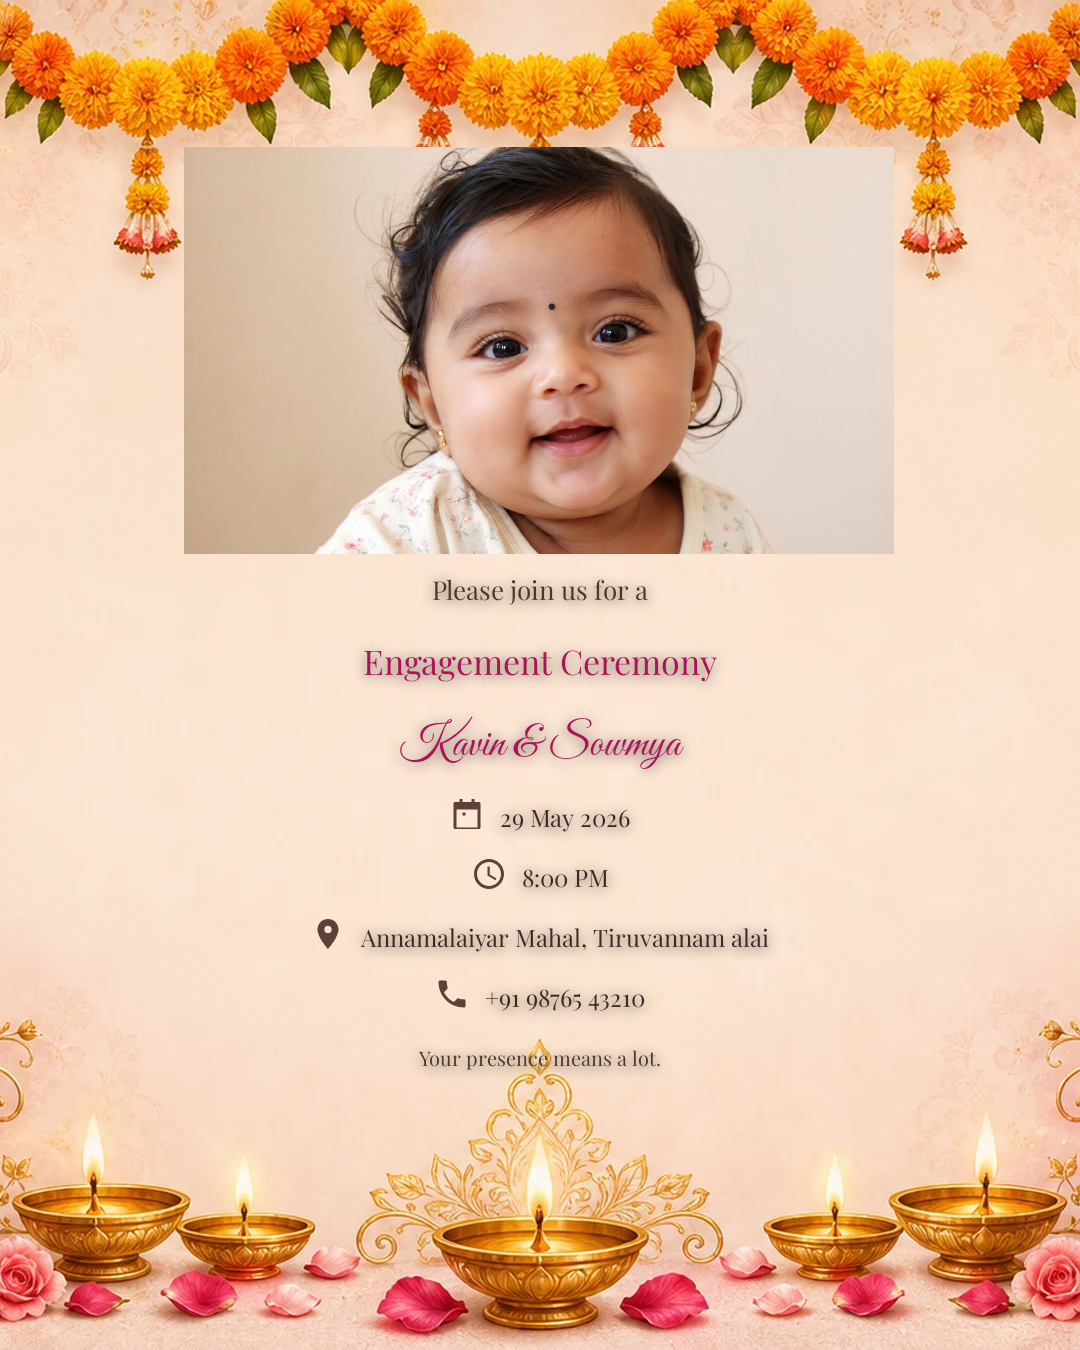
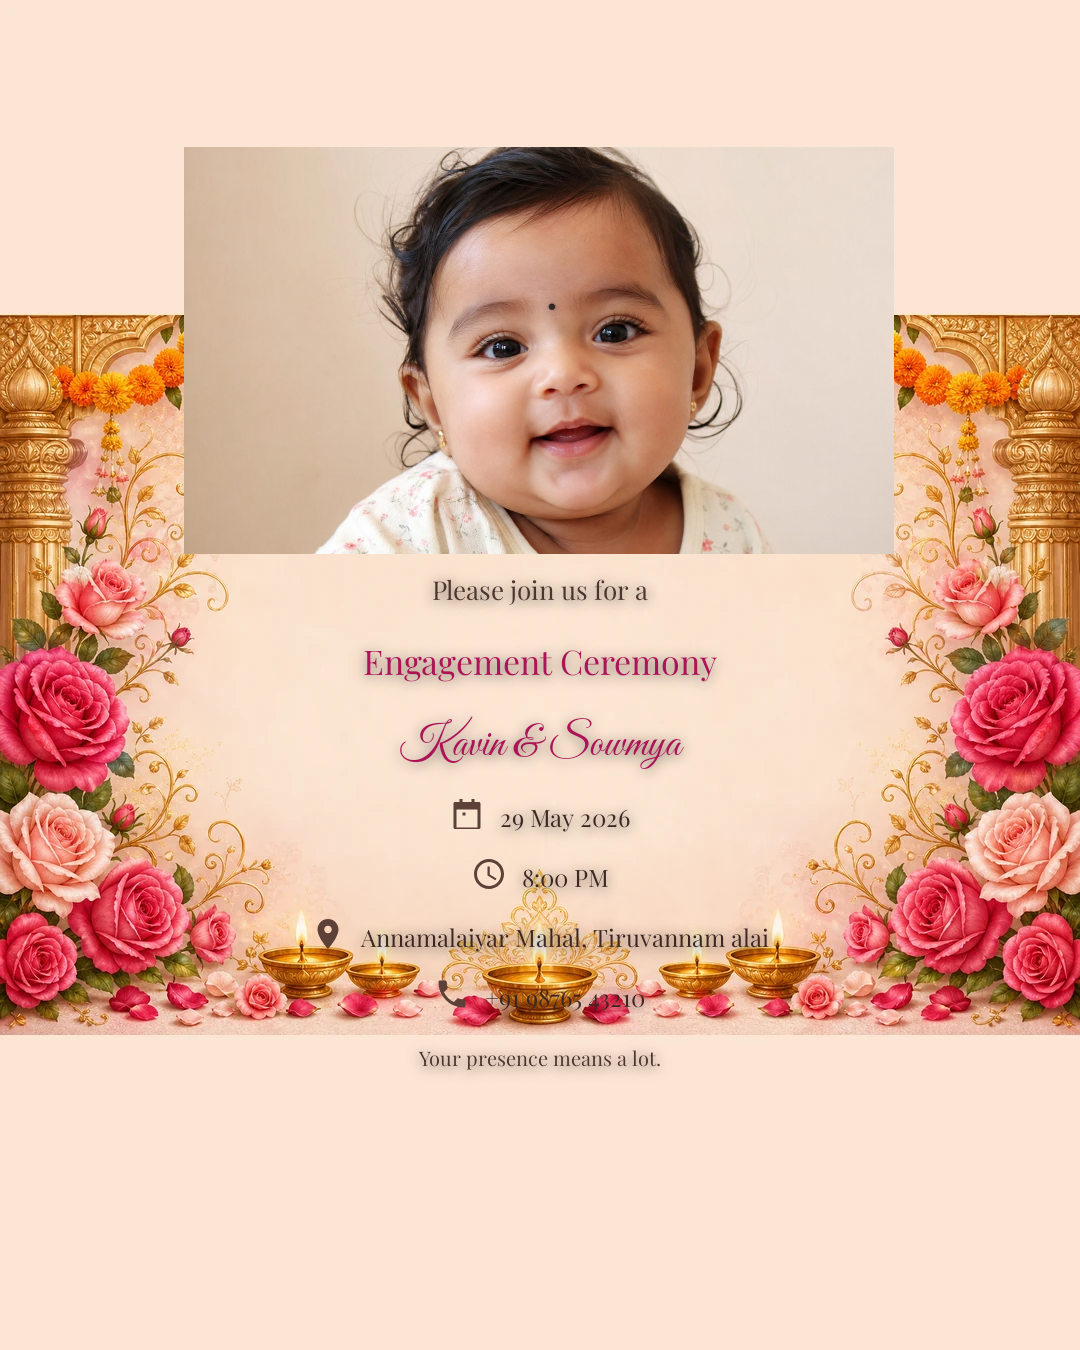
Fix photo-card WebP conversion to preserve side border art
Landscape sources were center-cropped to portrait, cutting banana leaves and
side garlands. Scale to full card width instead; letterbox top/bottom when needed.
Re-convert engagement and naming WebPs; adjust photo placement bounds.

diff --git a/app/src/main/java/com/vaangainvite/core/image/PhotoCardPlacement.kt b/app/src/main/java/com/vaangainvite/core/image/PhotoCardPlacement.kt
@@ -17,8 +17,8 @@ internal object PhotoCardPlacement {
         val mask: Mask = Mask.TRADITIONAL_RECT
     )
 
-    /** Measured on designed 1080×1350 WebP cream panels. */
-    private val traditionalPhoto = RectF(184f, 147f, 894f, 554f)
+    /** Measured on 1080×1350 WebPs (width-preserved conversion keeps side borders). */
+    private val traditionalPhoto = RectF(248f, 375f, 830f, 555f)
 
     private val templateIds = (1..5).flatMap { i ->
         listOf("engagement_%02d".format(i), "naming_%02d".format(i))

diff --git a/app/src/main/java/com/vaangainvite/core/image/InvitationLayout.kt b/app/src/main/java/com/vaangainvite/core/image/InvitationLayout.kt
@@ -41,8 +41,8 @@ internal object InvitationLayout {
     private val photoCardTextZone = TextZoneSpec(
         left = 200f,
         right = 880f,
-        topNoPhoto = 548f,
-        topWithPhoto = 568f,
+        topNoPhoto = 568f,
+        topWithPhoto = 578f,
         bottom = 1105f,
         messageBottom = 1068f,
         photoTextGap = 14f

diff --git a/tools/convert_photo_backgrounds.py b/tools/convert_photo_backgrounds.py
@@ -28,23 +28,41 @@ def crop_center_cover(im: Image.Image, target_ratio: float) -> Image.Image:
     return im.crop((0, top, w, top + new_h))
 
 
+def sample_edge_color(im: Image.Image) -> tuple[int, int, int]:
+    """Cream fill for vertical letterbox pads (from center panel)."""
+    x, y = im.width // 2, im.height // 2
+    patch = im.crop((x - 24, y - 24, x + 24, y + 24))
+    pixels = list(patch.get_flattened_data() if hasattr(patch, "get_flattened_data") else patch.getdata())
+    pixels.sort(key=lambda c: c[0] + c[1] + c[2])
+    return pixels[len(pixels) // 2]
+
+
 def fit_portrait_card(im: Image.Image) -> Image.Image:
-    """Scale then center-crop to 1080×1350 without squashing wide designed art."""
+    """Scale to 1080×1350 without squashing; keep full width on landscape art (side borders)."""
     w, h = im.size
     target_ratio = TARGET_W / TARGET_H
     current = w / h
+
     if current > target_ratio:
-        scale = TARGET_H / h
-        new_w = max(TARGET_W, int(w * scale))
-        new_h = TARGET_H
-    else:
+        # Wide designed art — scale to full card width so left/right décor is not cropped.
         scale = TARGET_W / w
         new_w = TARGET_W
-        new_h = max(TARGET_H, int(h * scale))
+        new_h = max(1, int(h * scale))
+        im = im.resize((new_w, new_h), Image.Resampling.LANCZOS)
+        if new_h >= TARGET_H:
+            top = (new_h - TARGET_H) // 2
+            return im.crop((0, top, TARGET_W, top + TARGET_H))
+        fill = sample_edge_color(im)
+        out = Image.new("RGB", (TARGET_W, TARGET_H), fill)
+        out.paste(im, (0, (TARGET_H - new_h) // 2))
+        return out
+
+    scale = TARGET_W / w
+    new_w = TARGET_W
+    new_h = max(TARGET_H, int(h * scale))
     im = im.resize((new_w, new_h), Image.Resampling.LANCZOS)
-    left = max(0, (new_w - TARGET_W) // 2)
     top = max(0, (new_h - TARGET_H) // 2)
-    return im.crop((left, top, left + TARGET_W, top + TARGET_H))
+    return im.crop((0, top, TARGET_W, top + TARGET_H))
 
 
 def sample_panel_color(im: Image.Image) -> tuple[int, int, int]:
